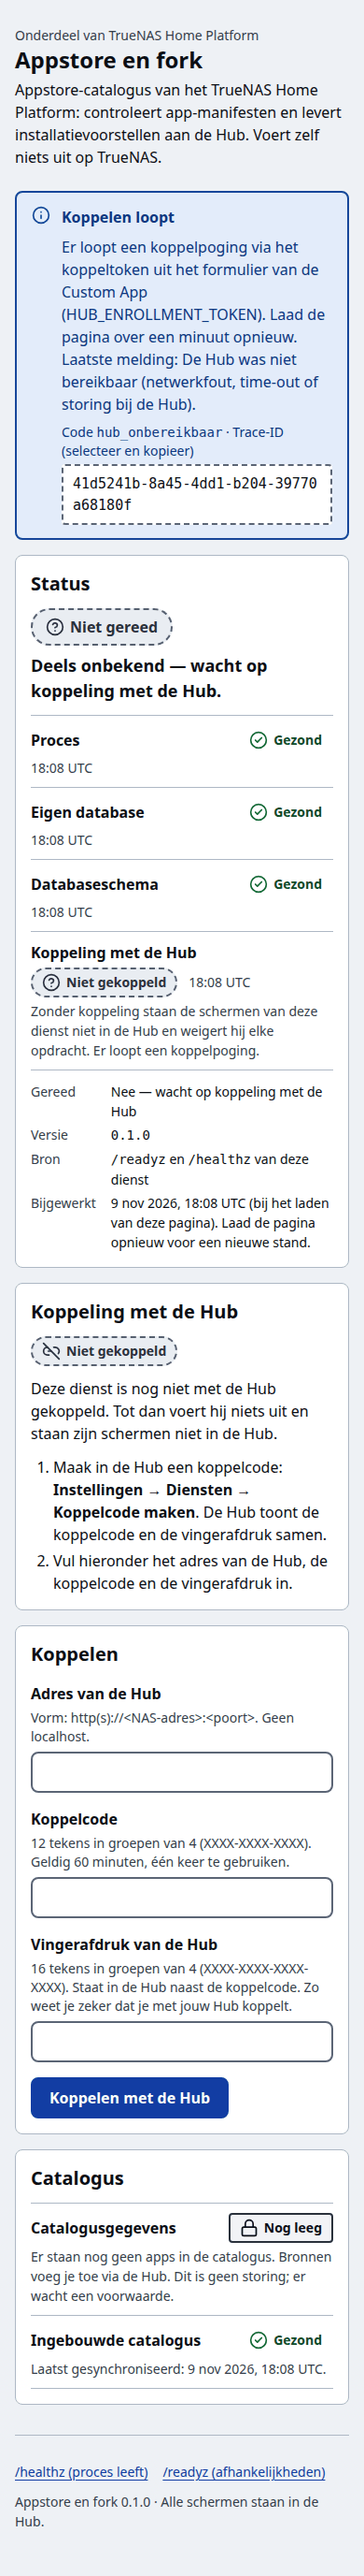
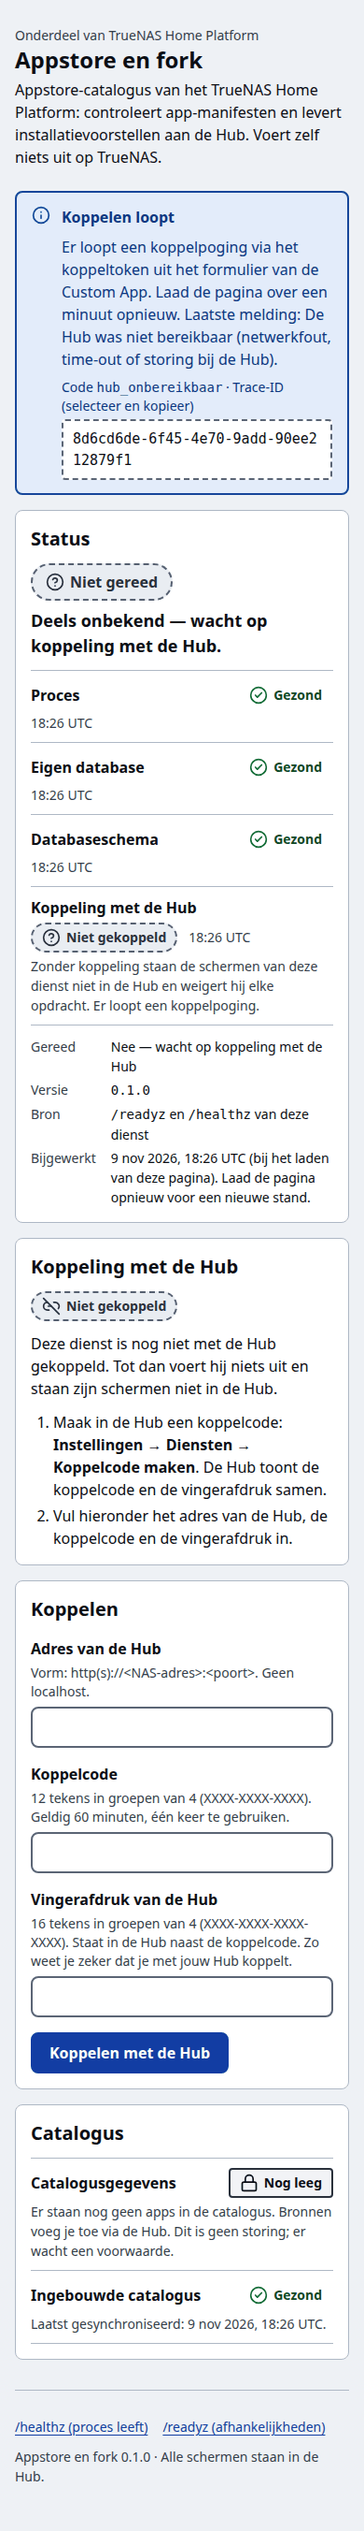
Docs en afdrukken: bevinding 17 (lange naam in melding bij breed lettertype) in PEIL_REVIEW, ADR-0011 en CHANGELOG
Afdrukken van koppelen-loopt en koppelstatus-onleesbaar opnieuw gemaakt uit de draaiende dienst (pngquant);
de metingen in PEIL_REVIEW.md komen uit de laatste volledige run (18 toestanden, ook met een breed lettertype).

Changed region(s): [[0.0308, 0.0, 0.9846, 0.9937]]

diff --git a/docs/ontwerp/PEIL_REVIEW.md b/docs/ontwerp/PEIL_REVIEW.md
@@ -28,6 +28,9 @@ De review vond **één blokkerende fout die alleen met een echte browser zichtba
 `Origin`-header zelf mee en zagen dit niet. Gerepareerd (`same-origin`), met een regressietest en een CI-stap die het
 formulier voortaan in Chromium verstuurt.
 
+Daarnaast vond de nieuwe meting in CI dat een lange variabelenaam in een melding op 320 px buiten de melding steekt
+met een breder systeemlettertype (#17); gerepareerd, en beide specs meten nu ook met een breed lettertype.
+
 Verder: zeven tekst- en semantiekpunten (Engelse vaktermen, "token" waar een koppelcode bedoeld is, groen dat als "beschikbaar" las,
 "Deels onbekend" bij een besluit van de Hub, ontbrekende vervolgstap, te lange veldfout) zijn gerepareerd. Vier punten
 zitten in het gedeelde sjabloon en zijn **niet lokaal omzeild** (de kopie blijft byte-gelijk, O-14); ze staan in §7 voor
@@ -70,7 +73,7 @@ repo of buiten "alleen uiterlijk") · **Akkoord** (bewust zo).
 | 3 | 🟡 | "Apps in de catalogus — Gezond — 1 app": groen las als "beschikbaar", niet als "gemeten en goed". | Peil §4.1 regel 1 | **Gerepareerd:** "Catalogusgegevens — Gezond — Gelezen uit de eigen database: 2 apps in de catalogus; 1 manifestversie geweigerd door de validator." (wat gemeten is staat erbij; database weg = Onbekend, geen 0; leeg = gate "Nog leeg"). |
 | 4 | 🟡 | Na het formulier: "De Hub weigerde: de koppelcode of het token is onbekend…" — in het formulier is geen token gebruikt; geen vervolgstap. | Peil §11.2 (fout = wat + waarom + wat je kunt doen) | **Gerepareerd:** eigen teksten voor de uitkomst van de Hub na het formulier (`HUB_POGING`), bv. "De Hub weigerde de koppelcode: verlopen, al gebruikt of onbekend. Maak in de Hub een nieuwe koppelcode en probeer het opnieuw." |
 | 5 | 🟢 | Opgeslagen fout op `GET /` zonder vervolgstap. | Peil §11.2 | **Gerepareerd:** vervolgstap per code (`VERVOLG`), bv. "Maak in de Hub een nieuwe koppelcode of een nieuw koppeltoken." |
-| 6 | 🟢 | Onleesbare koppelstatus: "maak in de Hub een nieuw enrollment-token". | Peil §11.1 (NL-termen) | **Gerepareerd:** "Het koppelbestand in /appdata/secrets is onleesbaar. Daarom vertrouwt deze dienst niets van de Hub en voert hij niets uit. Herstel: maak in de Hub een nieuw koppeltoken en vul het in bij HUB_ENROLLMENT_TOKEN in het formulier van de Custom App." Ook "Koppelen loopt" noemt nu "het koppeltoken uit het formulier van de Custom App (HUB_ENROLLMENT_TOKEN)". |
+| 6 | 🟢 | Onleesbare koppelstatus: "maak in de Hub een nieuw enrollment-token". | Peil §11.1 (NL-termen) | **Gerepareerd:** "Het koppelbestand in /appdata/secrets is onleesbaar. Daarom vertrouwt deze dienst niets van de Hub en voert hij niets uit. Herstel: maak in de Hub een nieuw koppeltoken en zet het in het formulier van de Custom App." Ook "Koppelen loopt" noemt nu "het koppeltoken uit het formulier van de Custom App". De variabelenaam `HUB_ENROLLMENT_TOKEN` staat bewust niet in de melding (zie #17); hij staat in CUSTOM_APP.md. |
 | 7 | 🟢 | Ingetrokken/ontkoppeld: "Deels onbekend — koppeling ingetrokken door de Hub." Er is niets onbekend: het is een besluit van de Hub. | Peil §1 (eerlijk), §11 | **Gerepareerd:** "De dienst weigert elke opdracht: koppeling ingetrokken door de Hub." Pil blijft grijs "Niet gereed" (geen gemeten falen, dus geen rood). |
 | 8 | 🟢 | Veldfout Hub-adres: vier regels vet op 320 px, met "loopback- of link-local-adres". | Peil §11 (rustig, feitelijk) | **Gerepareerd:** "Geen geldig Hub-adres. Vul het in als http(s)://<NAS-adres>:<poort>, zonder pad. Een adres van dit apparaat zelf (zoals localhost) werkt niet." |
 | 9 | 🟡 | Onleesbare koppelstatus: blok "Koppeling met de Hub" staat **leeg** (alleen de kop). Het sjabloon kent precies vier koppeltoestanden. | Peil §4.3 (onbekend altijd met reden) | **Gemeld** (sjabloon, §7). Melding bovenaan en de controle "Koppeling met de Hub: Storing — Onleesbaar" geven de reden wél. |
@@ -79,6 +82,7 @@ repo of buiten "alleen uiterlijk") · **Akkoord** (bewust zo).
 | 12 | 🟢 | Een feit (aantal) kan in het dienstblok alleen met een gezondheidspil; er is geen neutrale pil met icoon voor de rijen. | Peil §4.1 regel 1 | **Gemeld** (sjabloon). Hier opgelost met tekst (#3). |
 | 13 | 🟢 | Terwijl een poging met het koppeltoken loopt (`koppelen-loopt`) staat het formulier er nog; versturen geeft 409 "Er loopt al een koppelpoging". | contract §3.7 | **Gemeld** (functioneel; buiten "alleen uiterlijk"). De info-melding zegt "Laad de pagina over een minuut opnieuw". |
 | 14 | 🟢 | De UI-tests maten geen contrast, randen, focusring-contrast, statusvorm of woordenlijst, en geen tekst die binnen de pagina buiten zijn kaart steekt. | ONTWERPTAAL §12 | **Gerepareerd:** `tests/ui/meting.ts` (gedeeld door de CI-spec en de live review). |
+| 17 | 🟡 | Een lange naam zonder afbreekpunt in meldingstekst (`(HUB_ENROLLMENT_TOKEN)`, 22 tekens) stak op 320 px buiten de melding zodra het systeemlettertype breder is. Gevonden door de nieuwe meting "tekst buiten zijn kaart" in CI-run 42672438260 (ubuntu-24.04; lokaal met Noto Sans paste het nog). Lokaal nagebootst met DejaVu Sans: dezelfde fout. | Peil §5 (codes breken, nooit buiten beeld), WCAG 1.4.10 | **Gerepareerd:** geen variabelenamen of paden in meldingstekst; extra controle met een breed lettertype (DejaVu Sans) op 320 px in beide specs, zodat dit niet meer van het lettertype van de testmachine afhangt. Sjabloonpunt: zie §7.3. |
 | 15 | — | Rijen in het blok Catalogus hebben geen tijdkolom, rijen in Status wel; de pillen staan daardoor niet in één lijn. | prototype `statuspagina-gekoppeld.html` | **Akkoord:** gelijk aan het prototype (dienstblok zonder tijd). |
 | 16 | — | Tijden met "UTC" (prototype: "11:56"). | ADR-0009 §10 | **Akkoord:** de dienst kent de tijdzone van de lezer niet; eerlijk boven kort. |
 
@@ -121,6 +125,7 @@ de tekstparen halen ook de Peil-eis van 7:1.
 | Tekst buiten zijn kaart / doelen < 44 px | 0 / 0 | 0 / 0 |
 | Statuspillen gecontroleerd / fouten in de statusvorm | 882 / 0 | 882 / 0 |
 | Woorden buiten de Peil-woordenlijst | 0 | 0 |
+| Reflow met een breed lettertype (DejaVu Sans, 320 px): overloop / tekst buiten kaart | — | 0 / 0 (18 toestanden) |
 
 | Toestand | HTTP | Titel (tabblad) |
 |---|---|---|
@@ -142,6 +147,9 @@ de tekstparen halen ook de Peil-eis van 7:1.
 | `koppelstatus-onleesbaar` | 200 | Appstore en fork — storing, koppelstatus onleesbaar |
 | `koppelen-loopt` | 200 | Appstore en fork — niet gereed, niet gekoppeld |
 | `ontkoppeld` | 200 | Appstore en fork — niet gereed, ontkoppeld |
+
+De afdrukken van `koppelen-loopt` en `koppelstatus-onleesbaar` zijn na reparatie #17 opnieuw gemaakt; de andere
+toestanden veranderden daarbij niet (alleen tijden en trace-ID's zouden verschillen).
 
 **Controle van de controles (mutatietest):** in een kopie van `niet-gekoppeld` zijn zes fouten aangebracht (gedempte
 hulptekst, focusring in de vlakkleur, lichte veldrand, groene pil voor "Niet gekoppeld", het woord "bundled", een
@@ -184,8 +192,8 @@ De blokkerende fout #1 was daar niet te zien, omdat die antwoorden zonder echte 
 | Hub onbereikbaar (formulier) | De Hub was niet bereikbaar (netwerkfout, time-out of storing bij de Hub). | Op dit adres gaf geen Hub antwoord. Controleer het adres en of de Hub draait, en probeer het opnieuw. |
 | Opgeslagen fout | … Tijdstip: 9 nov 2026, 17:53 UTC. | … Tijdstip: 9 nov 2026, 17:53 UTC. Maak in de Hub een nieuwe koppelcode of een nieuw koppeltoken. |
 | Veldfout Hub-adres | Vul het adres in als http(s)://<NAS-adres>:<poort>, zonder pad. Geen localhost, geen loopback- of link-local-adres. | Geen geldig Hub-adres. Vul het in als http(s)://<NAS-adres>:<poort>, zonder pad. Een adres van dit apparaat zelf (zoals localhost) werkt niet. |
-| Onleesbare koppelstatus | Het bestand /appdata/secrets/hub-link.json is onleesbaar; de dienst vertrouwt niets van de Hub. Herstel: maak in de Hub een nieuw enrollment-token en zet het in het formulier van de Custom App (HUB_ENROLLMENT_TOKEN). | Het koppelbestand in /appdata/secrets is onleesbaar. Daarom vertrouwt deze dienst niets van de Hub en voert hij niets uit. Herstel: maak in de Hub een nieuw koppeltoken en vul het in bij HUB_ENROLLMENT_TOKEN in het formulier van de Custom App. |
-| Koppelen loopt | Er loopt een koppelpoging via het token uit het formulier van de Custom App. | Er loopt een koppelpoging via het koppeltoken uit het formulier van de Custom App (HUB_ENROLLMENT_TOKEN). |
+| Onleesbare koppelstatus | Het bestand /appdata/secrets/hub-link.json is onleesbaar; de dienst vertrouwt niets van de Hub. Herstel: maak in de Hub een nieuw enrollment-token en zet het in het formulier van de Custom App (HUB_ENROLLMENT_TOKEN). | Het koppelbestand in /appdata/secrets is onleesbaar. Daarom vertrouwt deze dienst niets van de Hub en voert hij niets uit. Herstel: maak in de Hub een nieuw koppeltoken en zet het in het formulier van de Custom App. |
+| Koppelen loopt | Er loopt een koppelpoging via het token uit het formulier van de Custom App. | Er loopt een koppelpoging via het koppeltoken uit het formulier van de Custom App. |
 | Volgorde bronnen | op naam (de ingebouwde catalogus tussen de andere bronnen) | ingebouwde catalogus eerst, daarna op naam |
 
 De opgeslagen meldingen van `hublink_store.ERROR_MESSAGES` (witte lijst §3.5, ook in de API) zijn niet gewijzigd.
@@ -200,8 +208,9 @@ Niet lokaal omzeild: de kopie in `design/ontwerptaal/` blijft byte-gelijk aan `1
 2. **Icoon per rij** in `ELK:checks`/`ELK:dienst_blok` (bv. `{{icoon}}` naast `{{toon}}`), zodat "Niet gekoppeld",
    "Ingetrokken" en "Ontkoppeld" `link-2-off` krijgen zoals COMPONENTEN §4 vraagt (#10), en een **neutrale pil** voor
    feiten in het dienstblok (#12).
-3. **Mono-plek in meldingen** (bv. `{{melding_pad}}` als `<code>` met `<wbr>` na elke `/`), voor paden en
-   bestandsnamen (#11).
+3. **Mono-plek in meldingen** (bv. `{{melding_pad}}` als `<code>` met `<wbr>` na elke `/`), voor paden,
+   bestandsnamen en variabelenamen (#11, #17). Platte tekst in `.melding` heeft geen `overflow-wrap`; een lange naam
+   zonder afbreekpunt steekt op 320 px met een breed lettertype buiten de melding.
 4. **Origin en Referrer-Policy** in de beschrijving van het sjabloon vastleggen: wie de statuspagina met
    `Referrer-Policy: no-referrer` serveert en `Origin` streng controleert, weigert elke echte formulier-POST (#1). In
    ai-server-manager eist de executor (`apps/executor/src/executor/app.py`) `Origin` = eigen adres en zet hij

diff --git a/docs/adr/ADR-0011-ontwerpreview-statuspagina.md b/docs/adr/ADR-0011-ontwerpreview-statuspagina.md
@@ -21,7 +21,9 @@
    (≥ 3:1); focusring per Tab-stop (≥ 3 px, ≥ 3:1, halo, in beeld, niet bedekt); geen overloop van de pagina én geen
    tekst buiten zijn kaart; doelen ≥ 44 × 44 px (alleen inline links in lopende tekst uitgezonderd); tekst ≥ 14 px;
    statusvorm (icoon dat bij de toon hoort + woord; groen alleen bij "Gezond"/"Alles gezond"; onbekend nooit groen);
-   één h1, geen kopsprongen, dubbele id's of kapotte verwijzingen; woorden buiten de Peil-woordenlijst.
+   één h1, geen kopsprongen, dubbele id's of kapotte verwijzingen; woorden buiten de Peil-woordenlijst. Daarnaast op
+   320 px een tweede reflow-meting met een **breed lettertype** (DejaVu Sans): het systeemlettertype verschilt per
+   apparaat en de CI-runner vond een overloop die lokaal (Noto Sans) niet optrad.
 3. **`Referrer-Policy: same-origin` in plaats van `no-referrer`.** Bij `no-referrer` serialiseert een browser de
    `Origin` van een formulier-POST als `null` (Fetch, "serializing a request origin"); de Origin-controle van
    `POST /koppelen` weigerde daardoor **elke** echte koppelpoging met `sessie_verlopen` (403). De bestaande tests
@@ -35,7 +37,9 @@
    Hub (ontkoppeld, ingetrokken) heet niet "Deels onbekend" maar "De dienst weigert elke opdracht: …"; de uitkomst van
    de Hub na het formulier spreekt van de koppelcode (niet van "het token") en zegt wat je kunt doen; een opgeslagen
    fout krijgt een vervolgstap; de onleesbare koppelstatus noemt "koppeltoken" in plaats van "enrollment-token"; de
-   veldfout bij het Hub-adres is korter en zonder "loopback/link-local".
+   veldfout bij het Hub-adres is korter en zonder "loopback/link-local". **Geen paden of variabelenamen in
+   meldingstekst** (die is platte tekst zonder afbreekpunt): `(HUB_ENROLLMENT_TOKEN)` stak op 320 px buiten de
+   melding (CI-runner; lokaal nagebootst met DejaVu Sans); de exacte namen staan in de controle en in CUSTOM_APP.md.
 5. **Het sjabloon blijft byte-gelijk (O-14).** Bevindingen die alleen in het sjabloon op te lossen zijn, worden niet
    lokaal omzeild maar gemeld aan de eigenaar (ai-server-manager): leeg blok "Koppeling met de Hub" bij een onleesbare
    koppelstatus, icoon `circle-help` in plaats van `link-2-off` voor "Niet gekoppeld" in de controles, geen

diff --git a/CHANGELOG.md b/CHANGELOG.md
@@ -71,9 +71,10 @@
   - Teksten volgens de Peil-woordenlijst: "Ingebouwde catalogus" en "Git-repository"/"HTTP-adres" in plaats van
     "bundled"/"git"/"http"; "Catalogusgegevens — Gelezen uit de eigen database: …"; geen "Deels onbekend" bij een
     besluit van de Hub (ontkoppeld/ingetrokken); uitkomst van de Hub na het formulier noemt de koppelcode en wat je
-    kunt doen; "koppeltoken" in plaats van "enrollment-token"; kortere veldfout bij het Hub-adres.
+    kunt doen; "koppeltoken" in plaats van "enrollment-token"; kortere veldfout bij het Hub-adres; geen lange
+    variabelenamen of paden meer in meldingen (staken op 320 px met een breed lettertype buiten de melding).
   - Nieuwe review-tooling: `tests/ui/review_live.py` + `statuspagina.live.ts` (18 toestanden, echte formulier-POST,
     ook in CI); gedeelde metingen `tests/ui/meting.ts` (contrast in de DOM, randen/iconen ≥ 3:1, focusring, tekst
-    buiten kaart, statusvorm, woordenlijst) in beide specs. Schermafdrukken: 18 toestanden × 320/360/390/768/1440 ×
+    buiten kaart, statusvorm, woordenlijst, reflow met een breed lettertype) in beide specs. Schermafdrukken: 18 toestanden × 320/360/390/768/1440 ×
     licht/donker uit de draaiende dienst.
 - Status: Sim-getest; NIET GEVALIDEERD op een echte NAS.
